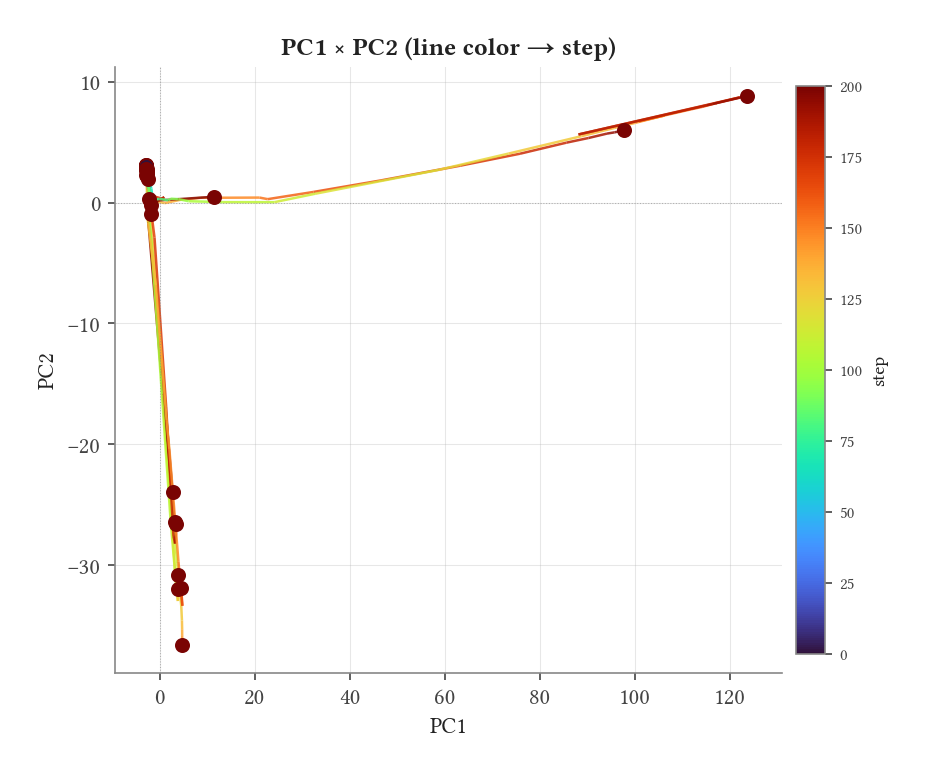
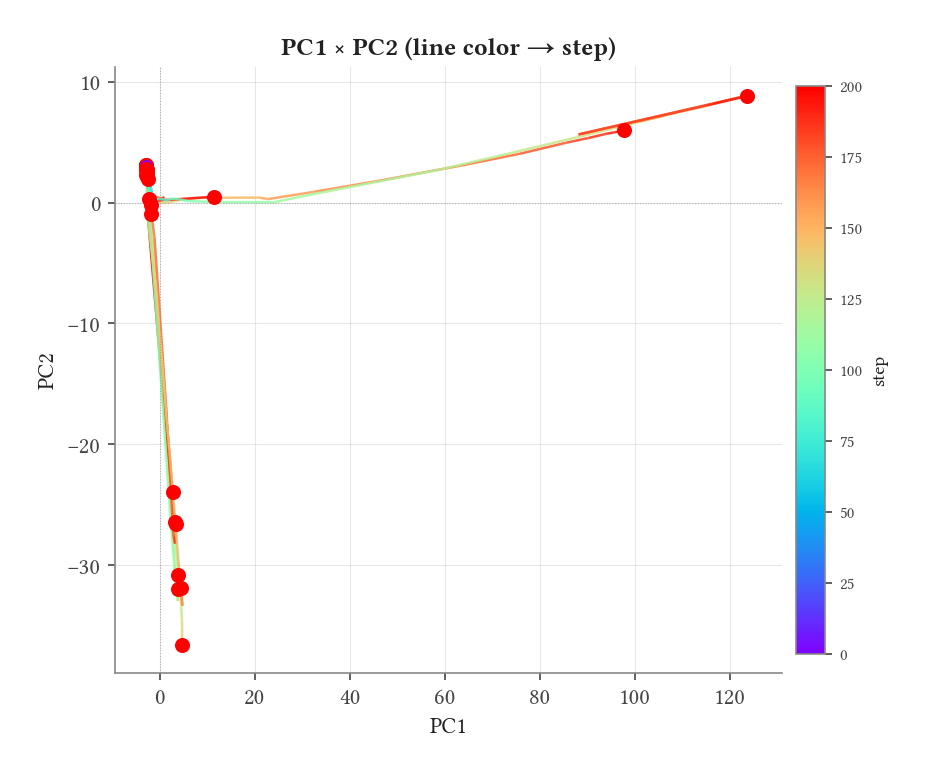
Rainbow cmap, axis vs vanilla_kl gets rainbow, axis vs step is grey
Three changes:

1. plot_style.py: factor out draw_step_colored_trajectory() so
   replot_axis.py and figure_chain_pca_rainbow.py share the
   LineCollection rendering logic.

2. figure_chain_pca_rainbow.py: default cmap "rainbow" instead of
   "turbo" (turbo's dark endpoints made step 0 and step 200 hard to
   tell from background).

3. replot_axis.py: x-axis-aware coloring:
     --x kl         basin colors (default — static-teacher convention)
     --x step       grey traces, no color (step on x already encodes time)
     --x vanilla_kl rainbow line color (step → color), with colorbar

Pilot outputs regenerated for the random_walk run.

diff --git a/scripts/replot_axis.py b/scripts/replot_axis.py
@@ -25,7 +25,7 @@ import matplotlib.pyplot as plt
 
 from csp_div.plot_style import (
     EDGE_COLOR, basin_color, basin_legend, draw_endpoints, draw_trajectory,
-    panel_title, style_kl_axis, trajectory_basin,
+    draw_step_colored_trajectory, panel_title, style_kl_axis, trajectory_basin,
 )
 
 
@@ -76,36 +76,79 @@ def replot(axis_json_path, out_path=None, x_kind="kl"):
     field = _X_FIELDS[x_kind]
     xlabel = _X_LABELS[x_kind]
     fig, axes = plt.subplots(1, 2, figsize=(10, 4))
-    for basin_filter, zorder in [(lambda b: b != "deep", 2),
-                                 (lambda b: b == "deep", 3)]:
-        for g, rs in sorted(by_group.items()):
-            if not basin_filter(group_basins[g]):
-                continue
-            color = basin_color(group_basins[g])
-            xs_dots = [(r.get(field), r["proj_dot"]) for r in rs]
-            xs_coss = [(r.get(field), r["proj_cos"]) for r in rs]
-            xs_dots = [(x, y) for (x, y) in xs_dots if x is not None]
-            xs_coss = [(x, y) for (x, y) in xs_coss if x is not None]
-            if xs_dots:
-                xs = [v[0] for v in xs_dots]
-                dots = [v[1] for v in xs_dots]
-                coss = [v[1] for v in xs_coss]
-                draw_trajectory(axes[0], xs, dots, color, zorder=zorder)
-                draw_endpoints(axes[0], xs, dots, color, zorder=zorder + 2)
-                draw_trajectory(axes[1], xs, coss, color, zorder=zorder)
-                draw_endpoints(axes[1], xs, coss, color, zorder=zorder + 2)
 
     if x_kind == "step":
+        # Grey traces only — step is on x already, no color needed for time.
+        for g, rs in sorted(by_group.items()):
+            xs_dots = [(r.get(field), r["proj_dot"], r["proj_cos"]) for r in rs]
+            xs_dots = [(x, d, c) for (x, d, c) in xs_dots if x is not None]
+            if not xs_dots:
+                continue
+            xs = [v[0] for v in xs_dots]
+            dots = [v[1] for v in xs_dots]
+            coss = [v[2] for v in xs_dots]
+            draw_trajectory(axes[0], xs, dots, "#888888", lw=1.0, alpha=0.45, zorder=2)
+            draw_endpoints(axes[0], xs, dots, "#888888", zorder=4)
+            draw_trajectory(axes[1], xs, coss, "#888888", lw=1.0, alpha=0.45, zorder=2)
+            draw_endpoints(axes[1], xs, coss, "#888888", zorder=4)
         _style_step_axis(axes[0], f"(L{layer} shift) · (assistant axis)")
         _style_step_axis(axes[1], f"cos(L{layer} shift, assistant axis)")
-    else:
+    elif x_kind == "vanilla_kl":
+        # Rainbow lines colored by step.
+        all_steps = [r["step"] for r in rows]
+        cmap = plt.get_cmap("rainbow")
+        norm = plt.Normalize(vmin=min(all_steps), vmax=max(all_steps))
+        for g, rs in sorted(by_group.items()):
+            steps = [r["step"] for r in rs]
+            xs_dots = [(r.get(field), r["proj_dot"], r["proj_cos"], s)
+                       for r, s in zip(rs, steps)]
+            xs_dots = [(x, d, c, s) for (x, d, c, s) in xs_dots if x is not None]
+            if len(xs_dots) < 2:
+                continue
+            xs = [v[0] for v in xs_dots]
+            dots = [v[1] for v in xs_dots]
+            coss = [v[2] for v in xs_dots]
+            ss = [v[3] for v in xs_dots]
+            draw_step_colored_trajectory(axes[0], xs, dots, ss, cmap, norm)
+            draw_step_colored_trajectory(axes[1], xs, coss, ss, cmap, norm)
+        # Need to manually autoscale because LineCollection doesn't trigger it
+        for a in axes:
+            a.autoscale()
         style_kl_axis(axes[0], xlabel=xlabel,
                       ylabel=f"(L{layer} shift) · (assistant axis)")
         style_kl_axis(axes[1], xlabel=xlabel,
                       ylabel=f"cos(L{layer} shift, assistant axis)")
+        sm = plt.cm.ScalarMappable(cmap=cmap, norm=norm)
+        cbar = plt.colorbar(sm, ax=axes, fraction=0.025, pad=0.02)
+        cbar.set_label("step", fontsize=9)
+        cbar.ax.tick_params(labelsize=8)
+    else:
+        # x_kind == "kl" — basin colors (existing default for static-teacher runs)
+        for basin_filter, zorder in [(lambda b: b != "deep", 2),
+                                     (lambda b: b == "deep", 3)]:
+            for g, rs in sorted(by_group.items()):
+                if not basin_filter(group_basins[g]):
+                    continue
+                color = basin_color(group_basins[g])
+                xs_dots = [(r.get(field), r["proj_dot"], r["proj_cos"]) for r in rs]
+                xs_dots = [(x, d, c) for (x, d, c) in xs_dots if x is not None]
+                if not xs_dots:
+                    continue
+                xs = [v[0] for v in xs_dots]
+                dots = [v[1] for v in xs_dots]
+                coss = [v[2] for v in xs_dots]
+                draw_trajectory(axes[0], xs, dots, color, zorder=zorder)
+                draw_endpoints(axes[0], xs, dots, color, zorder=zorder + 2)
+                draw_trajectory(axes[1], xs, coss, color, zorder=zorder)
+                draw_endpoints(axes[1], xs, coss, color, zorder=zorder + 2)
+        style_kl_axis(axes[0], xlabel=xlabel,
+                      ylabel=f"(L{layer} shift) · (assistant axis)")
+        style_kl_axis(axes[1], xlabel=xlabel,
+                      ylabel=f"cos(L{layer} shift, assistant axis)")
+        basin_legend(axes[1], n_dippers, n_nondippers, loc="lower right")
+
     panel_title(axes[0], "Magnitude along assistant axis")
     panel_title(axes[1], "Direction alignment with assistant axis")
-    basin_legend(axes[1], n_dippers, n_nondippers, loc="lower right")
     fig.suptitle(
         f"L{layer} shift onto Butanium axis  ·  "
         f"negative = role-play, positive = default-assistant",

diff --git a/scripts/figure_chain_pca_rainbow.py b/scripts/figure_chain_pca_rainbow.py
@@ -21,28 +21,19 @@ import os
 import matplotlib
 matplotlib.use("Agg")
 import matplotlib.pyplot as plt
-from matplotlib.collections import LineCollection
 import numpy as np
 import torch
 from sklearn.decomposition import PCA
 
-from csp_div.plot_style import EDGE_COLOR, panel_title, style_pc_axis
+from csp_div.plot_style import (
+    EDGE_COLOR, draw_step_colored_trajectory, panel_title, style_pc_axis,
+)
 
 
 ROOT = os.path.dirname(os.path.dirname(os.path.abspath(__file__)))
 
 
-def _segments_from_xy(xs, ys):
-    """Build a (N-1, 2, 2) segment array for LineCollection from xs, ys."""
-    pts = np.array([xs, ys]).T.reshape(-1, 1, 2)
-    return np.concatenate([pts[:-1], pts[1:]], axis=1)
-
-
-def _draw_step_colored_lines(ax, by_seed, x_field_fn, y_field_fn,
-                              cmap, norm, lw=1.2, alpha=0.85,
-                              start_size=22, end_size=36):
-    """For each trajectory, draw a multi-segment line colored by step.
-    Add open circle at start, filled dot at end (color = first/last step's cmap)."""
+def _draw_step_colored_lines(ax, by_seed, x_field_fn, y_field_fn, cmap, norm):
     for seed, traj in by_seed.items():
         steps = [r["step"] for r in traj]
         xs_ys = [(x_field_fn(r), y_field_fn(r), s)
@@ -53,24 +44,7 @@ def _draw_step_colored_lines(ax, by_seed, x_field_fn, y_field_fn,
         xs = [v[0] for v in xs_ys]
         ys = [v[1] for v in xs_ys]
         seg_steps = [v[2] for v in xs_ys]
-
-        segments = _segments_from_xy(xs, ys)
-        # Use the average of the two endpoints' steps for each segment's color
-        seg_colors = [(seg_steps[i] + seg_steps[i + 1]) / 2.0
-                      for i in range(len(seg_steps) - 1)]
-        lc = LineCollection(segments, cmap=cmap, norm=norm,
-                            array=np.asarray(seg_colors),
-                            linewidth=lw, alpha=alpha, zorder=2)
-        ax.add_collection(lc)
-        # Endpoints (open at start, filled at end), colored to match the line
-        c_start = cmap(norm(seg_steps[0]))
-        c_end = cmap(norm(seg_steps[-1]))
-        ax.scatter([xs[0]], [ys[0]], s=start_size,
-                   facecolor="white", edgecolor=c_start,
-                   linewidth=1.2, zorder=4)
-        ax.scatter([xs[-1]], [ys[-1]], s=end_size,
-                   facecolor=c_end, edgecolor=c_end,
-                   linewidth=1.2, zorder=4)
+        draw_step_colored_trajectory(ax, xs, ys, seg_steps, cmap, norm)
 
 
 def main():
@@ -79,7 +53,7 @@ def main():
                         default="results/random_walk/shifts.pt")
     parser.add_argument("--out-prefix", default=None)
     parser.add_argument("--normalize", action="store_true")
-    parser.add_argument("--cmap", default="turbo")
+    parser.add_argument("--cmap", default="rainbow")
     args = parser.parse_args()
 
     shifts_path = args.shifts_path if os.path.isabs(args.shifts_path) \

diff --git a/src/csp_div/plot_style.py b/src/csp_div/plot_style.py
@@ -216,6 +216,46 @@ def style_pc_axis(ax, *, x_label="PC1", y_label="PC2"):
     _strip_spines(ax)
 
 
+# ── Step-colored line helpers (rainbow trajectories) ──────────────────
+
+def _segments_from_xy(xs, ys):
+    """Build a (N-1, 2, 2) segment array for matplotlib.collections.LineCollection."""
+    import numpy as np
+    pts = np.array([xs, ys]).T.reshape(-1, 1, 2)
+    return np.concatenate([pts[:-1], pts[1:]], axis=1)
+
+
+def draw_step_colored_trajectory(ax, xs, ys, steps, cmap, norm,
+                                 lw=1.2, alpha=0.85,
+                                 start_size=22, end_size=36,
+                                 endpoint_lw=1.2, zorder_line=2, zorder_pts=4):
+    """Draw a single trajectory as a multi-segment line colored by step.
+
+    `steps` is a list parallel to xs/ys giving the step value for each point.
+    Colors come from cmap(norm(step)) per segment (using avg of endpoints).
+    Open circle at start, filled dot at end — colored to match the line at
+    those steps.
+    """
+    import numpy as np
+    from matplotlib.collections import LineCollection
+    if len(xs) < 2:
+        return
+    segments = _segments_from_xy(xs, ys)
+    seg_colors = [(steps[i] + steps[i + 1]) / 2.0 for i in range(len(steps) - 1)]
+    lc = LineCollection(segments, cmap=cmap, norm=norm,
+                        array=np.asarray(seg_colors),
+                        linewidth=lw, alpha=alpha, zorder=zorder_line)
+    ax.add_collection(lc)
+    c_start = cmap(norm(steps[0]))
+    c_end = cmap(norm(steps[-1]))
+    ax.scatter([xs[0]], [ys[0]], s=start_size,
+               facecolor="white", edgecolor=c_start,
+               linewidth=endpoint_lw, zorder=zorder_pts)
+    ax.scatter([xs[-1]], [ys[-1]], s=end_size,
+               facecolor=c_end, edgecolor=c_end,
+               linewidth=endpoint_lw, zorder=zorder_pts)
+
+
 # ── Legend ─────────────────────────────────────────────────────────────
 
 def basin_legend(ax, n_dippers: int, n_nondippers: int, *,
